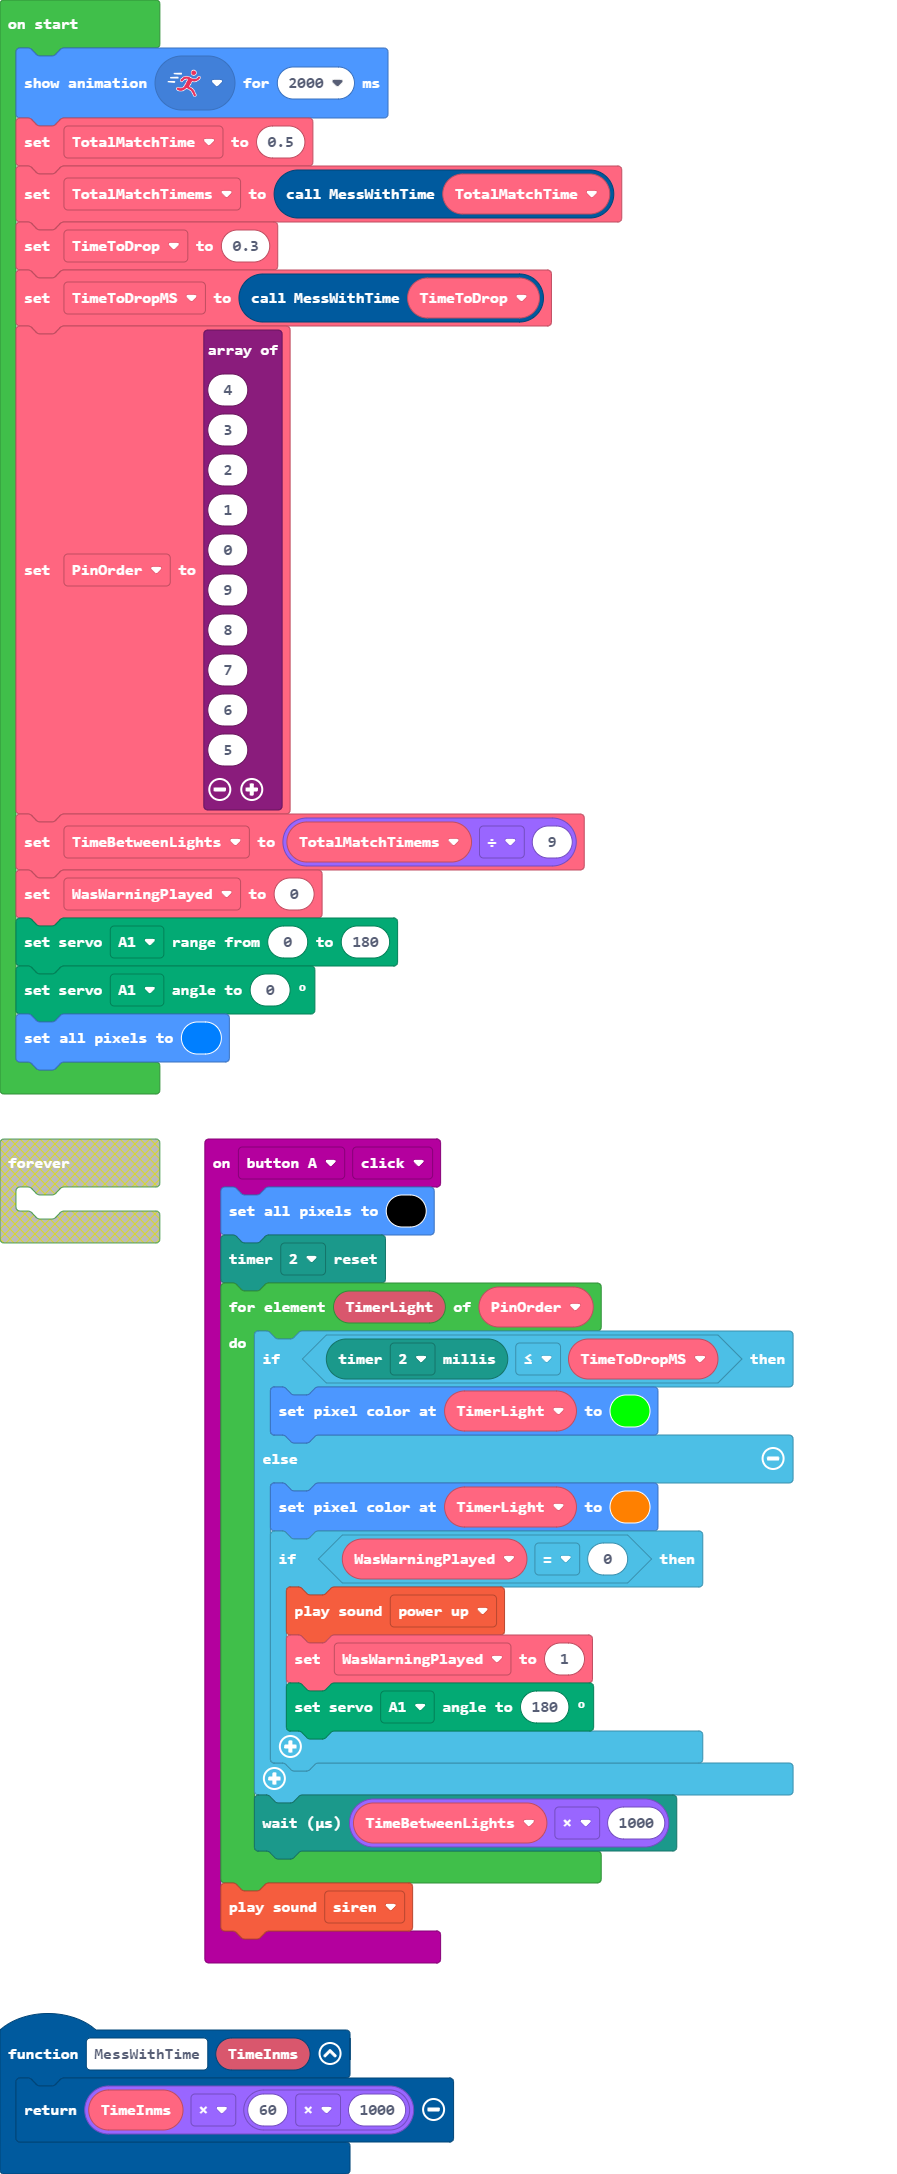
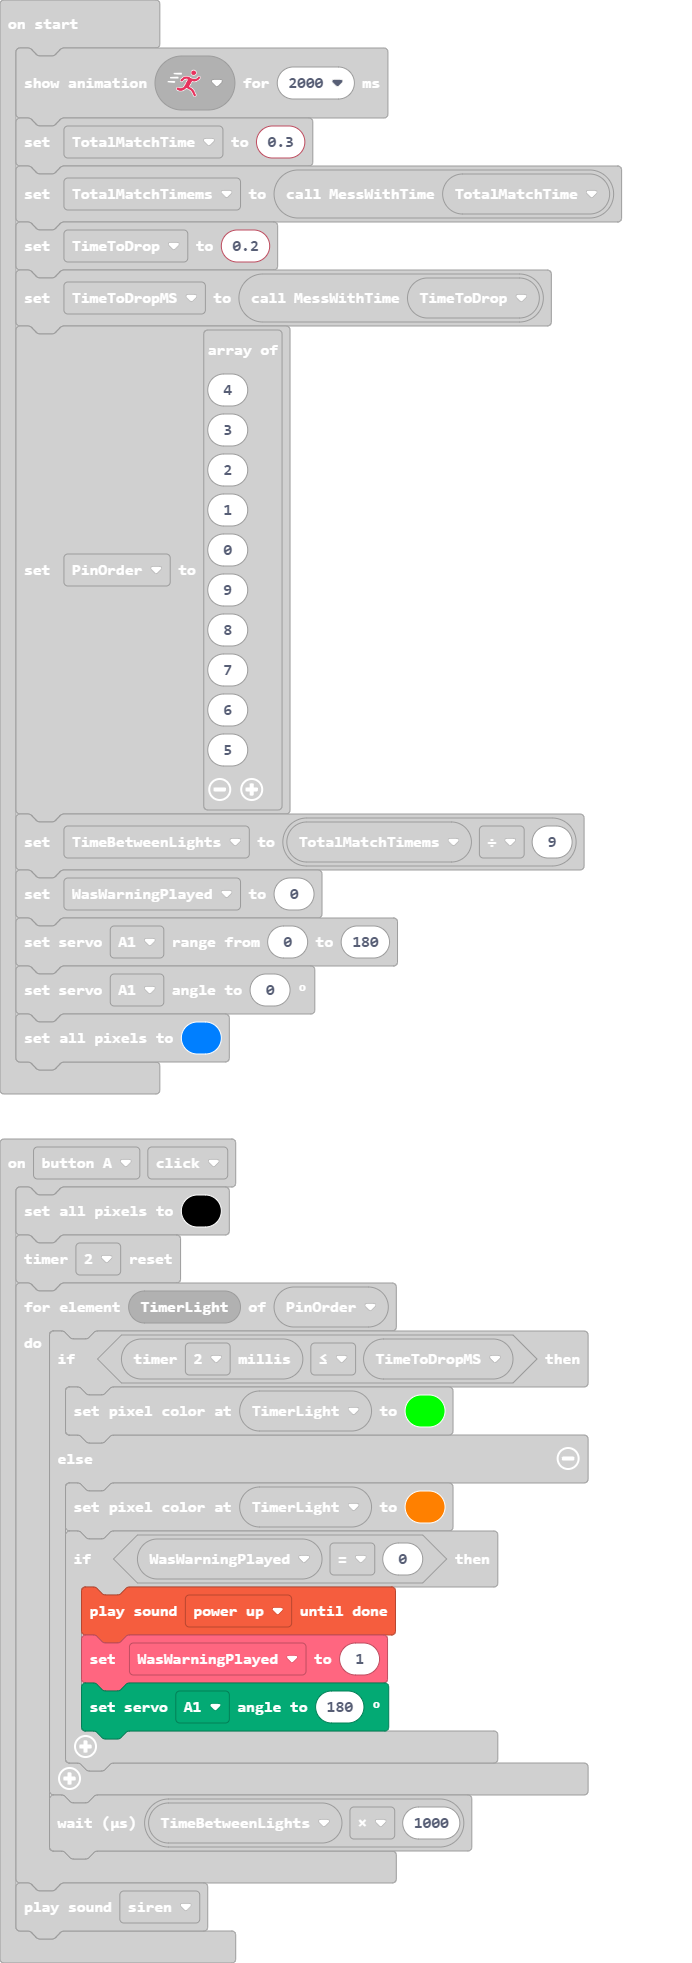
Got the sound fixed

diff --git a/main.ts b/main.ts
@@ -10,7 +10,7 @@ input.buttonA.onEvent(ButtonEvent.Click, function () {
         } else {
             light.setPixelColor(TimerLight, 0xff8000)
             if (WasWarningPlayed == 0) {
-                music.powerUp.play()
+                music.powerUp.playUntilDone()
                 WasWarningPlayed = 1
                 servos.A1.setAngle(180)
             }
@@ -24,9 +24,9 @@ let TimeBetweenLights = 0
 let PinOrder: number[] = []
 let TimeToDropMS = 0
 light.showAnimation(light.runningLightsAnimation, 2000)
-let TotalMatchTime = 0.5
+let TotalMatchTime = 0.3
 let TotalMatchTimems = MessWithTime(TotalMatchTime)
-let TimeToDrop = 0.3
+let TimeToDrop = 0.2
 TimeToDropMS = MessWithTime(TimeToDrop)
 PinOrder = [
 4,
